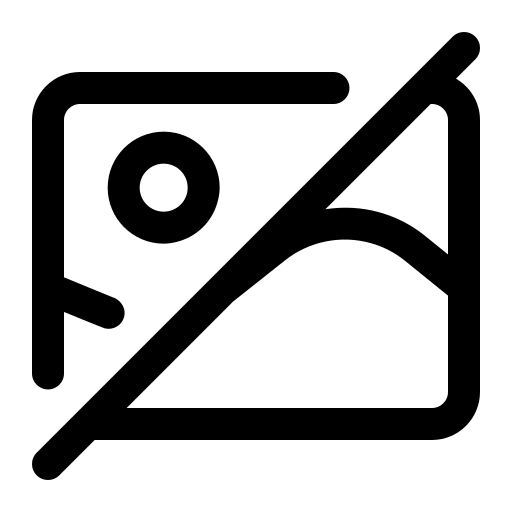
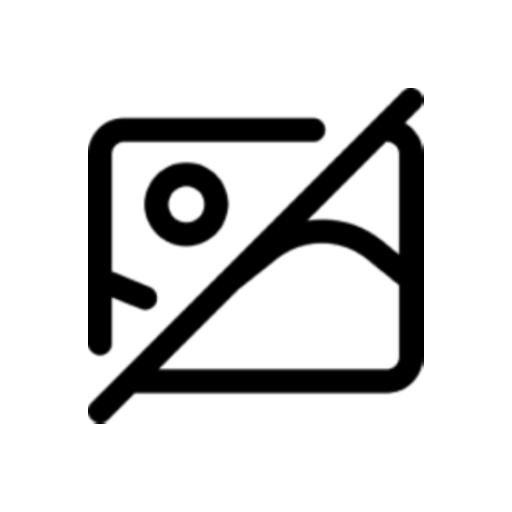
uploading video updating in every client is done

diff --git a/server/serverlogic.py b/server/serverlogic.py
@@ -104,6 +104,7 @@ class ServerLogic:
         self.clients_awaiting_email_verification = {}  # [client_ip] = [username, password, email, email_verification_code, time]
 
         self.pfps_sent = {}  # [client_ip] = [users_names]
+        self.creator_videos_sent = {} # [client_ip] = [users_names]
         self.videos_sent = {}  # [client_ip] = [videos_ids]
         self.thumbnails_sent = {}  # [client_ip] = [videos_ids]
 
@@ -119,6 +120,7 @@ class ServerLogic:
         self.clients_awaiting_email_verification.pop(client_ip, None)
 
         self.pfps_sent.pop(client_ip, None)
+        self.creator_videos_sent.pop(client_ip, None)
         self.videos_sent.pop(client_ip, None)
         self.thumbnails_sent.pop(client_ip, None)
 
@@ -197,6 +199,7 @@ class ServerLogic:
                                                serverCommVideos.ServerCommVideos(self.current_video_port, self.recvQ, client_ip),
                                                []]
                     self.pfps_sent[client_ip] = []
+                    self.creator_videos_sent[client_ip] = []
                     self.videos_sent[client_ip] = []
                     self.thumbnails_sent[client_ip] = []
 
@@ -314,6 +317,7 @@ class ServerLogic:
                 self.clients[client_ip] = [username, serverCommVideos.ServerCommVideos(self.current_video_port, self.recvQ,
                                                                                        client_ip), []]
                 self.pfps_sent[client_ip] = []
+                self.creator_videos_sent[client_ip] = []
                 self.videos_sent[client_ip] = []
                 self.thumbnails_sent[client_ip] = []
                 self.current_video_port += 1
@@ -511,10 +515,6 @@ class ServerLogic:
 
                 self.clients[client_ip][1].send_msg(client_ip, msg)
 
-        # to indicate end of videos sending
-        msg = serverProtocol.build_video_details_in_profile(settings.END_OF_BATCH_SEND_ID, "", "", "", "", 0, 0, 0, "")
-        self.clients[client_ip][1].send_msg(client_ip, msg)
-
     def handle_video_comment(self, client_ip, data):  # command 7
         """
             Handles a request from a client to post a comment on a video.
@@ -697,6 +697,7 @@ class ServerLogic:
         last_id = int(last_id)
 
         videos_ids = self.db.get_videos_by_creator(username, False)
+        print("videos_ids by creator in creator videos req:", videos_ids)
         start_index = 0
         if last_id:
             start_index = videos_ids.index(last_id) + 1
@@ -710,10 +711,19 @@ class ServerLogic:
 
         print(f"videos_to_send in creator video req: {videos_to_send}")
 
+        if not username in self.creator_videos_sent:
+            self.creator_videos_sent[client_ip].append(username)
+
         if videos_to_send:
             self.send_videos_details_and_thumbnail(client_ip, videos_to_send)
+
+            #indicate end of list
+            msg = serverProtocol.build_video_details_in_profile(settings.END_OF_BATCH_SEND_ID, username, "", "", "", 0,
+                                                                0, 0, "")
+            self.clients[client_ip][1].send_msg(client_ip, msg)
+
         else:  # indicates there are no more videos to send
-            msg_to_send = serverProtocol.build_video_details_in_profile(0, "", "", "", "", 0, 0, 0, "")
+            msg_to_send = serverProtocol.build_video_details_in_profile(0, username, "", "", "", 0, 0, 0, "")
             self.clients[client_ip][1].send_msg(client_ip, msg_to_send)
 
     def handle_user_follow_list_req(self, client_ip, data):  # command 14
@@ -814,9 +824,11 @@ class ServerLogic:
         video_name, video_desc, test_link, topics = video_details
         print("video_name", video_name, "video_desc", video_desc, "test_link", test_link, "topics", topics)
 
+        username = self.clients[client_ip][0]
+
         video_hash = self.hash_video(file_content)
         if not self.db.hash_exists(video_hash):
-            video_id = self.db.add_video(self.clients[client_ip][0], video_name, video_desc, test_link)
+            video_id = self.db.add_video(username, video_name, video_desc, test_link)
             self.db.add_video_topics(video_id, topics)
 
             with open(f"media\\videos\\{video_id}.{extension}", 'wb') as f:
@@ -825,12 +837,21 @@ class ServerLogic:
             # puts the id for the thumbnail filename
             self.clients[client_ip][1].idsQ.put(video_id)
             print("video uploaded")
-            msg = serverProtocol.build_video_upload_confirmation(video_id)
-            self.comm.send_msg(client_ip, msg)
+
+            msg = serverProtocol.build_video_upload_confirmation(video_id, username)
+
+            # video_id = int(video_id)
+            clients_to_send = [ip for ip in self.clients.keys() if
+                               username in self.creator_videos_sent[ip]]
+            print("clients_to_send in video_upload:",clients_to_send)
+            print("self.creator_videos_send[ip] in video_upload:", self.creator_videos_sent, "username:", username)
+            for client in clients_to_send:
+                self.comm.send_msg(client, msg)
+
         else:
             # 0 indicates that the video already exists, so to not save the thumbnail
             self.clients[client_ip][1].idsQ.put(0)
-            msg = serverProtocol.build_video_upload_confirmation(0)
+            msg = serverProtocol.build_video_upload_confirmation(0, username)
             self.comm.send_msg(client_ip, msg)
             print("video already exists")
 

diff --git a/client/graphics/user_profile.py b/client/graphics/user_profile.py
@@ -200,32 +200,41 @@ class UserProfilePanel(wx.ScrolledWindow):
         self.add_video_details(video)
 
     def add_video_details(self, video):
-        print(video.video_id)
-        if not video.video_id:  # video_id = 0 indicates no more users videos
-            self.waiting_for_videos = False
-            if not self.videos_ids:
-                if self.current_username == self.frame.user.username:
-                    self.status_label.SetLabel("You do not have any content yet, upload one to get started!")
+        print("video in add_video_details:", video.video_id, video.creator)
+        if video.creator == self.current_username: # if video arriving belongs to user shown on screen
+            if not video.video_id:  # video_id = 0 indicates no more users videos
+                self.waiting_for_videos = False
+                if not self.videos_ids:
+                    if self.current_username == self.frame.user.username:
+                        self.status_label.SetLabel("You do not have any content yet, upload one to get started!")
+                        print("You do not have any content yet, upload one to get started!")
+                    else:
+                        self.status_label.SetLabel("This user does not have any content")
                 else:
-                    self.status_label.SetLabel("This user does not have any content")
-            else:
-                self.status_label.SetLabel("this user does not have more videos")
-            self.Layout()
+                    self.status_label.SetLabel("this user does not have more videos")
+                self.Layout()
 
-        elif video.video_id == settings.END_OF_BATCH_SEND_ID: # ready for a new videos batch send
-            self.waiting_for_videos = False
-            self.status_label.SetLabel("")
+            elif video.video_id == settings.END_OF_BATCH_SEND_ID: # ready for a new videos batch send
+                self.waiting_for_videos = False
+                self.status_label.SetLabel("")
 
-        elif video.video_id not in self.videos_ids: # makes sure there are no dups
-            self.videos_details[video.creator].append(video)
+            elif video.video_id not in self.videos_ids: # makes sure there are no dups
+                index = self.frame.users[video.creator].videos_ids.index(
+                    video.video_id)  # if a creator added video, insert it at index 0
+                self.videos_details[video.creator].insert(index, video)
 
-            self.videos_ids.append(video.video_id)
+                self.videos_ids.insert(index, video.video_id)
 
-            if len(self.videos_grid.GetChildren()) == self.videos_grid.GetCols() * self.videos_grid.GetRows():  # if grid is full
-                self.videos_grid.SetRows(self.videos_grid.GetRows() + 1)
+                if len(self.videos_grid.GetChildren()) == self.videos_grid.GetCols() * self.videos_grid.GetRows():  # if grid is full
+                    self.videos_grid.SetRows(self.videos_grid.GetRows() + 1)
 
-            thumbnail = video_widget.VideoWidget(self, video, self.COLUMN_WIDTH, self.RATIO)
-            self.videos_grid.Add(thumbnail, 0, wx.EXPAND)
+                thumbnail = video_widget.VideoWidget(self, video, self.COLUMN_WIDTH, self.RATIO)
+                self.videos_grid.Add(thumbnail, 0, wx.EXPAND)
+
+            elif video.video_id not in self.videos_ids and video.video_id>0: # still save the video locally so can be loaded later
+                index = self.frame.users[video.creator].videos_ids.index(video.video_id) # if a creator added video, insert it at index 0
+                self.videos_details[video.creator].insert(index, video)
+
 
             self.FitInside()
             self.Layout()
@@ -259,7 +268,6 @@ class UserProfilePanel(wx.ScrolledWindow):
         """
         self.current_username = user.username
         self.profile_info.set_user(user)
-        self.videos_ids.clear()
 
     def set_new_user(self, username):
         """
@@ -268,8 +276,9 @@ class UserProfilePanel(wx.ScrolledWindow):
         """
         # todo: delete all info until new info arrives. update instantly when user info arrives
 
-
+        self.waiting_for_videos = False
         self.videos_grid.Clear(True)
+        self.videos_ids.clear()
         self.videos_grid.SetRows(1)
 
         self.current_username = username
@@ -335,6 +344,22 @@ class UserProfilePanel(wx.ScrolledWindow):
         # update the video comments amount label
         if video_id in self.videos_ids:
             self.Refresh()  # refresh if the video is currently on screen
+
+    def on_a_user_upload_video(self, video_id, username):
+        print("creator has uploaded new video:",username)
+        msg = clientProtocol.build_req_creator_videos(username)
+        self.frame.comm.send_msg(msg)
+
+        if self.current_username == username:
+            self.waiting_for_videos = True
+            self.videos_grid.Clear(True)
+            self.videos_ids.clear()
+
+            if username == self.frame.user.username:
+                self.status_label.SetLabel("You have uploaded a new video, loading it now from server")
+            else:
+                self.status_label.SetLabel("This creator uploaded a new video, loading it now from server")
+            self.Layout()
 
 if __name__ == "__main__":
     app = wx.App()

diff --git a/client/graphics/main_frame.py b/client/graphics/main_frame.py
@@ -45,7 +45,7 @@ class MainFrame(wx.Frame):
                                     "waiting for comments from server", "Loading Video From Server", "Loading Content",
                                     "Uploading", "Resending code", "sending credentials to the server",
                                     "Loading Content From Server", "waiting for videos from server",
-                                    "Disconnected from server, Closing application in 5 seconds"]
+                                    "Disconnected from server, Closing application in 5 seconds", "Creator uploaded a new video, loading it now from server"]
 
         self.dots_animation_timer = wx.Timer(self)
         self.Bind(wx.EVT_TIMER, self.status_label_dots_animation, self.dots_animation_timer)
@@ -119,6 +119,7 @@ class MainFrame(wx.Frame):
 
         pub.subscribe(self.comm_disconnected, "comm_disconnected")
 
+        pub.subscribe(self.on_a_user_upload_video, "video_upload_ans")
 
     def video_deleted_ans(self, video_id):
         correct_feed_panel = self.delete_video_requests_by_feeds.pop(0)
@@ -184,6 +185,16 @@ class MainFrame(wx.Frame):
             index = -1
         print("index:", index, "commenter_names:", commenter_names)
         return index
+
+    def on_a_user_upload_video(self, video_id, username):
+        if username in self.users:
+            self.users[username].videos_ids.insert(0, video_id)
+
+        if username == self.user.username:
+            self.upload_video_panel.on_video_upload_ans(video_id)
+            self.user.videos_ids.insert(0, video_id)
+
+        self.user_profile_panel.on_a_user_upload_video(video_id, username)
 
 
     def switch_panel(self, new_panel, old_panel):

diff --git a/client/graphics/components/comment_widget.py b/client/graphics/components/comment_widget.py
@@ -26,6 +26,7 @@ class CommentWidget(wx.Panel):
         separator_sizer = wx.BoxSizer(wx.HORIZONTAL)
 
         self.comment = comment
+        self.parent = parent
 
         pfp_path = f"media\\{comment.commenter}.png"
         if not os.path.isfile(pfp_path):
@@ -33,6 +34,7 @@ class CommentWidget(wx.Panel):
 
         pfp = wx.Bitmap(wx.Image(pfp_path).Scale(settings.PFP_SIZE, settings.PFP_SIZE))
         pfp = wx.StaticBitmap(self, bitmap=pfp)
+        pfp.SetCursor(wx.Cursor(wx.CURSOR_HAND))
 
         # right sizer
         right_sizer = wx.BoxSizer(wx.VERTICAL)
@@ -81,6 +83,13 @@ class CommentWidget(wx.Panel):
         self.timer = wx.Timer(self)
         self.Bind(wx.EVT_TIMER, self.on_check_hover, self.timer)
         self.timer.Start(100)
+
+        pfp.Bind(wx.EVT_LEFT_UP, self.move_to_commenter_profile)
+
+    def move_to_commenter_profile(self, event):
+        self.parent.GetParent().frame.user_profile_panel.set_new_user(self.comment.commenter)
+        self.parent.GetParent().frame.switch_panel(self.parent.GetParent().frame.user_profile_panel, self.parent.GetParent().parent)
+        event.Skip()
 
     def on_check_hover(self, event):
         """

diff --git a/server/database.py b/server/database.py
@@ -323,10 +323,10 @@ class DataBase:
 
     def get_videos_by_creator(self, username, matter_deleted=True):
         """
-        Retrieves video IDs created by a specific user ordered by views.
+        Retrieves video IDs created by a specific user ordered by date.
         :param matter_deleted: whether to exclude deleted videos in the results
         :param username: Creator username
-        :return: List of video IDs sorted by number of views
+        :return: List of video IDs sorted by date
         """
 
         query = """
@@ -1136,6 +1136,10 @@ if __name__ == "__main__":
     print("\n\n")
 
     # --- testing ---
+
+    db.cur.execute("DELETE FROM video_hashes")
+    db.conn.commit()
+
     # print(db.search_videos("ella", []))
     # print(db.get_videos_by_creator("Barak"))
 

diff --git a/server/serverProtocol.py b/server/serverProtocol.py
@@ -244,13 +244,14 @@ def build_video_details(video_id, creator_name, video_name, video_desc, created_
     )
 
 
-def build_video_upload_confirmation(video_id):
+def build_video_upload_confirmation(video_id, username):
     """
         Builds a response command confirming the result of a video upload.
     :param video_id: The ID of the newly uploaded video, or 0 if the video already exists.
+    :param username: video creator
     :return: Formatted video-upload confirmation command string.
     """
-    return build_command(16, [video_id])
+    return build_command(16, [video_id, username])
 
 
 def build_follow_user_status(status, followed):

diff --git a/client/clientlogic.py b/client/clientlogic.py
@@ -328,9 +328,9 @@ class ClientLogic:
 
         :param data: The response data containing the newly assigned video ID.
         """
-        video_id = data[0]
+        video_id, username = data
         video_id = int(video_id)
-        wx.CallAfter(pub.sendMessage, "video_upload_ans", video_id=video_id)
+        wx.CallAfter(pub.sendMessage, "video_upload_ans", video_id=video_id, username = username)
 
     def handle_follow_status(self, data):  # command 17
         """Handles the server's response to a follow request and notifies the UI.

diff --git a/client2/clientlogic.py b/client2/clientlogic.py
@@ -328,9 +328,9 @@ class ClientLogic:
 
         :param data: The response data containing the newly assigned video ID.
         """
-        video_id = data[0]
+        video_id, username = data
         video_id = int(video_id)
-        wx.CallAfter(pub.sendMessage, "video_upload_ans", video_id=video_id)
+        wx.CallAfter(pub.sendMessage, "video_upload_ans", video_id=video_id, username = username)
 
     def handle_follow_status(self, data):  # command 17
         """Handles the server's response to a follow request and notifies the UI.

diff --git a/client/graphics/components/comments.py b/client/graphics/components/comments.py
@@ -205,7 +205,7 @@ class Comments(wx.Panel):
 
         if self.video and self.video.video_id == video_id:
             # add comment visually
-            comment_panel = comment_widget.CommentWidget(self.comments_panel, comment)
+            comment_panel = comment_widget.CommentWidget( self.comments_panel, comment)
 
             self.comments_sizer.Insert(index, comment_panel, 0, wx.EXPAND)
             if comment.commenter == self.frame.user.username:

diff --git a/client/graphics/components/video_widget.py b/client/graphics/components/video_widget.py
@@ -1,7 +1,6 @@
 import os
 import wx.svg
 import wx
-import clientProtocol
 import settings
 
 
@@ -41,6 +40,7 @@ class VideoWidget(wx.Panel):
 
         self.hovering = False
 
+        #todo make sure you cant enter a broken video (a video without a thumbnail)
         thumbnail_path = f"media\\{video.video_id}.png"
         if not os.path.isfile(thumbnail_path):
             thumbnail_path = "assets\\no_thumbnail.png"

diff --git a/client/graphics/upload_video.py b/client/graphics/upload_video.py
@@ -211,8 +211,6 @@ class UploadVideoPanel(wx.ScrolledWindow):
         self.upload_video_btn.Bind(wx.EVT_LEFT_DOWN, self.on_upload_video)
         back_arrow.Bind(wx.EVT_LEFT_DOWN, self.on_back_arrow)
 
-        pub.subscribe(self.on_video_upload_ans, "video_upload_ans")
-
         self.dots_animation_timer = wx.Timer(self)
         self.Bind(wx.EVT_TIMER, self.uploading_dots_animation, self.dots_animation_timer)
 

diff --git a/common_packages/settings.py b/common_packages/settings.py
@@ -18,7 +18,7 @@ PHYSICAL_FPS = 60
 
 AMOUNT_OF_USERS_TO_SEND = 20
 AMOUNT_OF_VIDEOS_TO_SEND = 15
-AMOUNT_OF_VIDEOS_TO_REQ = 4 # amount of videos to request from server when first moving to feed
+AMOUNT_OF_VIDEOS_TO_REQ = 2 # amount of videos to request from server when first moving to feed
 AMOUNT_OF_COMMENTS_TO_SEND = 20
 
 MAX_VIDEO_LENGTH = 2 # minutes
